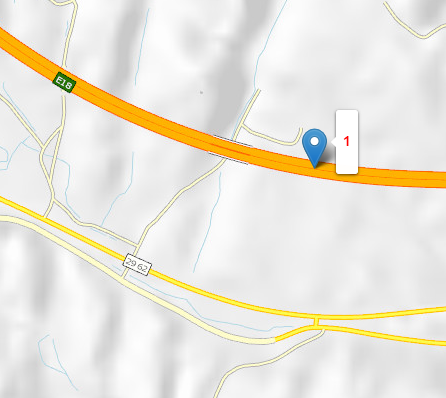
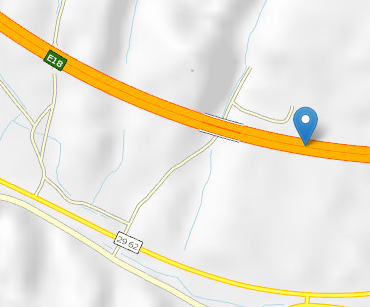
Enda enklere

diff --git a/index.html b/index.html
@@ -270,7 +270,8 @@ function hentVegreferanser(hvaslags) {
                 var tempGeo = []; 
 
                 // for (index = 0; index < respons['features'].length; ++index) {
-                for (index = 0; index < 1 ; ++index) {
+                // for (index = 0; index < 1 ; ++index) 
+                var index = 0; 
                     var coords = JSON.parse( JSON.stringify( respons['features'][index]['geometry']['coordinates'] ));
                     var props  = JSON.parse( JSON.stringify( respons['features'][index]['properties'] )) ;
                     var mittNummer = index + 1; 
@@ -283,7 +284,7 @@ function hentVegreferanser(hvaslags) {
                     // Lag table header 
                     if ($("#vegreferanseTabell tbody").length == 0) {
                       $("#vegreferanseTabell").append("<thead>" + 
-                      "<tr><th><em>Nummer</em></th>" + 
+//                      "<tr><th><em>Nummer</em></th>" + 
                           "<th><em>Gyldig fra</em></th>" + 
                           "<th><em>Gyldig til</em></th>"  + 
                           "<th><em>X</em></th>"  + 
@@ -292,80 +293,38 @@ function hentVegreferanser(hvaslags) {
                     }
 
 
-//  Funker bedre å konsekvent bruke den brukervalgte datoen.                   
-//                    var tekstX = laglenke_punktsok( coords[0], coords[1], x, props['fradato']) 
-//                    var tekstY = laglenke_punktsok( coords[0], coords[1], y, props['fradato']) 
 
                     var tekstX = laglenke_punktsok( coords[0], coords[1], x, dato ) 
                     var tekstY = laglenke_punktsok( coords[0], coords[1], y, dato ) 
                     
                     // Append product to the table
                     var myTableRow = "<tr " + 'class="'  + props['fremhev'] +  '">' +
-                        "<td>" + props['visningsnummer'] + "</td>" +
+  //                      "<td>" + props['visningsnummer'] + "</td>" +
                         "<td>" + props['fradato'] + "</td>" +
                         "<td>" + props['tildato'] + "</td>" +
-                        "<td>" + tekstX + "</td>" +
-                        "<td>" + tekstY + "</td>" +
+                        "<td>" + x + "</td>" +
+                        "<td>" + y + "</td>" +
+//                        "<td>" + tekstX + "</td>" +
+//                        "<td>" + tekstY + "</td>" +
                         
                       "</tr>"; 
                     $("#vegreferanseTabell tbody").append(myTableRow);
 
-                    // Unngår å modifisere det elementet vi itererer over. I stedet kopierer vi 
-                    // over til tempGeo, med eller uten endringer 
-                    // bruker JSON.parse(JSON.stringify( object)) for å få "deepCopy" 
-                    var match = false; 
-                    
-                    tempGeo = []
-                    for (jj = 0; jj < myGeo.length; ++jj) {
-                        var tempResultat = JSON.parse( JSON.stringify( myGeo[jj])); 
-                        var dx = coords[0] - tempResultat['coords'][0]; 
-                        var dy = coords[1] - tempResultat['coords'][1]; 
-                        if (Math.abs(dx) < posisjonToleranseX && Math.abs(dy) < posisjonToleranseY) { 
-                                
-                            match = true; 
-                            tempResultat['props']['visningsnummer'] = tempResultat['props']['visningsnummer'].concat( ', ' +  mittNummer.toString()); 
-                            if (props['fremhev'].includes( 'fremhev' )) {
-                                tempResultat['props']['fremhev'] = JSON.parse( JSON.stringify( props['fremhev'] ) ); 
-                            }
-                               
-                        } 
-                        tempGeo.push( tempResultat ); 
-                    
-                    }
-                    // Ingen match mot gamle elementer? Føyer nye elementer til tempGeo - array 
-                    if (!match) { 
-                        tempGeo.push( { 'coords' : coords, 'props' : props } );
-                    }
-                    myGeo = JSON.parse( JSON.stringify( tempGeo)); 
-                    
-                }
+
+          
                 if (map.hasLayer(myMarkers)){ map.removeLayer(myMarkers) }
                 if (map.hasLayer(myCircles)){ map.removeLayer(myCircles) }
                 
                 
-                for (var ii = 0; ii < myGeo.length; ii++) {
+                // for (var ii = 0; ii < myGeo.length; ii++) {
+                var ii = 0; 
                 
-                    var mittPunkt =  crs.projection.unproject( L.point( myGeo[ii]['coords'][0], myGeo[ii]['coords'][1] ));
+                    var mittPunkt =  crs.projection.unproject( L.point( coords[0], coords[1] ));
                     var minMarker = new L.Marker( mittPunkt)
                     
-                    if ( myGeo[ii]['props']['fremhev'].includes( 'fremhev' ) ) {
-                        minMarker.bindTooltip( '<h3><font color="red">' + 
-                                                myGeo[ii]['props']['visningsnummer']  + '</font></h3>', 
-                                                { 'permanent' : true, 'direction' : 'right' } ); 
-                        
-                        <!-- var minSirkel = new L.circle( mittPunkt, { color : '#C02900',  -->
-                                <!-- fillColor: '#D19D1F', weigth : 15, fillOpacity:0, radius: 30 } ).addTo(myCircles);  -->
-                        
-                    } else if (myGeo[ii]['props']['fremhev'].includes( 'idag' )) {
-                        minMarker.bindTooltip( '<h3>' + myGeo[ii]['props']['visningsnummer'] + 
-                                                '</h3>', { 'permanent' : true, 'direction' : 'right' } ); 
-                    } else {
-                        minMarker.bindTooltip( myGeo[ii]['props']['visningsnummer'], 
-                                                { 'permanent' : true, 'direction' : 'right' } ); 
-
-                    }
+                    
                     minMarker.addTo( myMarkers ); 
-                }
+                // }
                 
                 
                 
@@ -379,39 +338,6 @@ function hentVegreferanser(hvaslags) {
      }
 }
 
-/* Datovelger */
-/*
-$(function(){
-
-    myUrl = window.location.href; 
-    var dato = getUrlParameter(myUrl, "dato");
-    var godkjent = sjekkdato( dato); 
-    if (!godkjent) { 
-
-        var today = new Date();
-        var dd = String(today.getDate()).padStart(2, '0');
-        var mm = String(today.getMonth() + 1).padStart(2, '0'); //January is 0!
-        var yyyy = today.getFullYear();
-        dato = yyyy + '-' + mm + '-' + dd; 
-
-    }
-
-    $('#dato').dropdownDatepicker({ 'defaultDate' : dato, 
-                                    maxYear: 2021, 
-                                    minYear: 1950, 
-                                    dayLabel: 'Dag',
-                                    monthLabel: 'Måned',
-                                    yearLabel: 'År',
-                                    monthLongValues: ['Januar', 'Februar', 'Mars', 
-                                        'April', 'Mai', 'Juni', 'Juli', 'August', 
-                                        'September', 'Oktober', 'November', 'Desember'],
-                                    monthShortValues: ['Jan', 'Feb', 'Mar', 'Apr', 'May', 
-                                            'Jun', 'Jul', 'Aug', 'Sep', 'Okt', 'Nov', 'Des'],
-//                                    initialDayMonthYearValues: ['Day', 'Month', 'Year'],
-                                    daySuffixValues: ['ste', 'de', 'dje', 'de']
-                                    } ); 
-});
-*/
 
 function dagensdato() {
 
@@ -626,7 +552,8 @@ function lagPunktHistorikkTabell( jsondata, mindato) {
     $("#bruksanvisning1").empty();
     var coordstring = ''; 
     var arrayLength = jsondata['features'].length;
-    for (var i = 0; i < arrayLength; i++) {
+//    for (var i = 0; i < arrayLength; i++) {
+    var i = 0; 
 
         if ($("#vegreferanseTabell tbody").length == 0) {
           $("#vegreferanseTabell").append("<thead>" + 
@@ -645,7 +572,7 @@ function lagPunktHistorikkTabell( jsondata, mindato) {
             "<td>" + jsondata['features'][i]['properties']['tildato'] + "</td>" +
           "</tr>"; 
         $("#vegreferanseTabell tbody").append(myTableRow);
-    }
+//    }
     $("#bruksanvisning1").append('<h2>Vegreferanseverdier i punkt ' + coordstring + '</h2>');
 }    
 
@@ -803,6 +730,7 @@ function laglenke_punktsok( X, Y, tekst, dato) {
 // I tillegg legger vi på URL parametre for vegreferanse-søk. 
 
 
+
     var myUrl = window.location.href;
     var myPath = myUrl.split('?')[0]
 
@@ -838,3 +766,4 @@ L.control.scale({ imperial : false }  ).addTo(map);
 </script>
 </body>
 </html>
+

diff --git a/tutorial.html b/tutorial.html
@@ -1,7 +1,7 @@
 <!DOCTYPE html>
 <html>
 <head>
- <title>Vis vegreferanser</title>
+ <title>Bruksanvisning</title>
 
  <script src="lib/jquery-3.4.1.min.js"></script>
  <script src="lib/jquery-dropdown-datepicker.min.js"></script>
@@ -31,7 +31,7 @@ vise hvordan vegreferansene har endret seg i tid og rom. Kartet er fremdeles noe
 <p>Datovelgeren angir hvilken dato som skal <span class="fremhev">fremheves</span> spesielt, i kart og tabell.
 
 -->
-<h1>Velg en vegreferanse</h1>
+<h1>Bruksanvisning - velg en vegreferanse</h1>
 <a name="vegrefverdi"></a>
 
 
@@ -98,14 +98,17 @@ Vegstatus:
   <input id="meter" type="number" name="quantity" min="0" max="99999" value="0">
 </p>
 
-<p>Med disse valgene angir du den vegreferansen som er interessant for deg, og får vist den i kartet.</p>
+<p>Med disse valgene angir du den vegreferansen som er interessant for deg. Bruk knappen <em>"Hent denne vegreferansen</em>, så får du vist i kart og tabell hvor denne vegreferansen er hen på vegnettet.</p>
+
+<p>
+    <button class="myButton" onClick="hentVegreferanser('knappeklikk')" >Hent denne vegreferansen</button>
+</p> 
 
 <img src="img/eks0800ev18h1m0.png" alt="Tidsutvikling for vegreferansen 0800 Ev 18 hp1 m0" >
 
 <table>
 <thead>
 <tr>
-    <th><em>Nummer</em></th>
     <th><em>Gyldig fra</em></th>
     <th><em>Gyldig til</em></th>
     <th><em>X</em></th>
@@ -115,11 +118,14 @@ Vegstatus:
 <tbody>
 
     <tr class="fremhevidag">
-      <td>1</td>
       <td>2012-06-06</td>
       <td>9999-12-31</td>
+      <td>205102.57</td>
+      <td>6560292.99</td>
+<!--
       <td><a href="./?kartvisning=posisjon&ost=205102.569152832&nord=6560292.99194336&dato=2012-06-06">205102.57</a></td>
       <td><a href="./?kartvisning=posisjon&ost=205102.569152832&nord=6560292.99194336&dato=2012-06-06">6560292.99</a></td>
+-->
     </tr>
 <!--
     <tr class="gammalt">
@@ -139,11 +145,9 @@ Vegstatus:
 <a href="https://www.vegvesen.no/Europaveg/e18skylangangen" target="blank">E18 motorvegen 
 Sky-Langangen åpnet i 2012</a>. Den gamle E18-traséen, markert med tallet 2 i kart og tabell, 
 er i dag blitt til Fv 2962.</p>
--->
 
 <p>Koordinatene er klikkbare! Når du klikker på en koordinat får du tidsutvikling av vegreferanse i dette punktet, slik som beskrevet i avsnittet <a href="#kartklikk">Vis punktverdier</a>.
 
-<!--
 <h3 id="komprimeringh3">Punkt nær hverandre slås sammen</h3>
 
 <p>Kartløsningen slår sammen punkt som ligger veldig nærme hverandre. 
@@ -190,7 +194,7 @@ Avstanden mellom punktene er ca 3.5 meter, for lite til at det blir lesbart om v
 <h1>Vis punktverdier - Klikk i kartet</h1>
 
 
-<p>Ved å klikke på en veg i kartet kan du se hvordan vegreferansen har endret seg i dette punktet.</p>
+<p>Ved å klikke på en veg i kartet kan du se vegreferansen i dette punktet.</p>
 
 <p>
 <img src="img/eks0800fv2962h2m0.png" alt="Tidsutvikling av vegreferanse for et punkt i vegnettet" >
@@ -203,7 +207,9 @@ Avstanden mellom punktene er ca 3.5 meter, for lite til at det blir lesbart om v
     <th><em>Vegreferanse</em></th>
     <th><em>Gyldig fra</em></th>
     <th><em>Gyldig til</em></th>
+    <!--
     <th><em><span class="kommentar">Kommentar</span></em></th>
+    -->
 </tr>
 </thead>
 <tbody>
@@ -212,16 +218,18 @@ Avstanden mellom punktene er ca 3.5 meter, for lite til at det blir lesbart om v
       <td>0800 Fv2962 hp2 m0</td>
       <td>2019-05-08</td>
       <td>9999-12-31</td>
+      <!--
       <td ><span class="kommentar">Dagens verdi</span></td>
+      -->
     </tr>
-    
+<!--    
     <tr class="gammalt">
       <td>0800 Fv30 hp1 m0</td>
       <td>2013-10-28</td>
       <td>2019-05-08</td>
       <td ><span class="kommentar"></span></td>
     </tr>
-
+-->
  <!--    
     <tr class="gammalt">
       <td>0800 Fv30 hp1 m0</td>
@@ -237,6 +245,7 @@ Avstanden mellom punktene er ca 3.5 meter, for lite til at det blir lesbart om v
       <td ><span class="kommentar"></span></td>
     </tr>
 -->
+<!--
 
     <tr class="gammalt">
       <td>0800 Et18 hp1 m0</td>
@@ -244,40 +253,41 @@ Avstanden mellom punktene er ca 3.5 meter, for lite til at det blir lesbart om v
       <td>2013-10-28</td>
       <td ><span class="kommentar">Midlertidig vegstatus</span></td>
     </tr>
-
     <tr class="gammalt">
       <td>0800 Ev18 hp1 m0</td>
       <td>1950-01-01</td>
       <td>2012-06-06</td>
       <td ><span class="kommentar">Gammel E18 trasé</span></td>
     </tr>
+-->
 
 </tbody>
 </table>
 </p>
 
-<p>Av tabellen ser vi at dagens Fv2962 het Fv30 før 8. mai 2019. <!-- Videre har vi to 
+<!--
+<p>Av tabellen ser vi at dagens Fv2962 het Fv30 før 8. mai 2019. Videre har vi to 
 oppføringer for <em>Fv30 hp1 m0</em>. Det skjer en del vegnettsendringer 
 som påvirker historikken uten at akkurat verdiene for hp, meter etc endres, så slike 
-dobbeltoppføringer er ganske vanlig.--></p> 
+dobbeltoppføringer er ganske vanlig.</p> 
 
 <p>Fram til 2012-06-06 het vegen Ev18, men det tok over ett 
 år (fram til 2013-10-28) før vegen fikk fylkesveg-nummeret Fv30. I mellomtiden het vegen <em>Et18</em>, 
 hvor bokstaven "t" betyr <em>midlertidig status bilveg</em>. Dette er vanlig praksis når 
 det drøyer ut i tid med tildeling av nye vegnummer.</p>
 </p>
+-->
 
 <a name="minpos"></a>
 <h1>Vegreferanse i min posisjon</h1>
 
+<p>For den som er ute på vegen er det kanskje greit å se hvilke vegreferanseverdier 
+som har vært i din posisjon? Knappen for dette ligger helt nederst på siden. Ellers 
+er visningen lik den du får når du klikker i kartflaten.</p>
 
 <p>
 <button class="myButton" >Hent vegreferanse i min posisjon</button>
 </p>
-
-<p>For den som er ute på vegen er det kanskje greit å se hvilke vegreferanseverdier 
-som har vært i din posisjon? Knappen for dette ligger helt nederst på siden. Ellers 
-er visningen lik den du får når du klikker i kartflaten.</p>
 
 <h1>Mer om vegreferanser</h1>
 <a name="vegrefteori"></a>
@@ -320,50 +330,7 @@ Det er mange grunner til å at vegreferanser endres i vegens levetid:
   <li>Teknisk vedlikehold, f.eks. opprydding i hp-inndeling.</li>
 </ul>
 -->
-<script>
-/* Datovelger */
-$(function(){
 
-   
-
-    var today = new Date();
-    var dd = String(today.getDate()).padStart(2, '0');
-    var mm = String(today.getMonth() + 1).padStart(2, '0'); //January is 0!
-    var yyyy = today.getFullYear();
-    dato = yyyy + '-' + mm + '-' + dd; 
-
-   
-    $('#dato').dropdownDatepicker({ 'defaultDate' : dato, maxYear: 2021, minYear: 1950 } );
- 
-});
-
-function sjekkdato( mystring) {
-// Sjekker om dato er på format 2018-12-30 
-
-    var godkjent = false;     
-    if (mystring === undefined)  {
-        // Do nothing. Log to console? Nah... 
-    } else { 
-    
-
-        var myArr = mystring.split( '-'); 
-        if (myArr.length == 3) {
-            var yyyy = parseInt( myArr[0] ); 
-            var mm = parseInt( myArr[1] ); 
-            var dd = parseInt( myArr[2] ); 
-            
-            if (!isNaN( yyyy ) && !isNaN( mm ) && !isNaN( dd)  && 
-                yyyy > 1949 && yyyy < 1e4 && mm > 0 && mm < 13 && dd > 0 && dd < 32) {
-                    godkjent = true; 
-            }
-            
-        }
-    }
-    return godkjent
-
-}
-
-</script>
 
 </body>
 </html>
